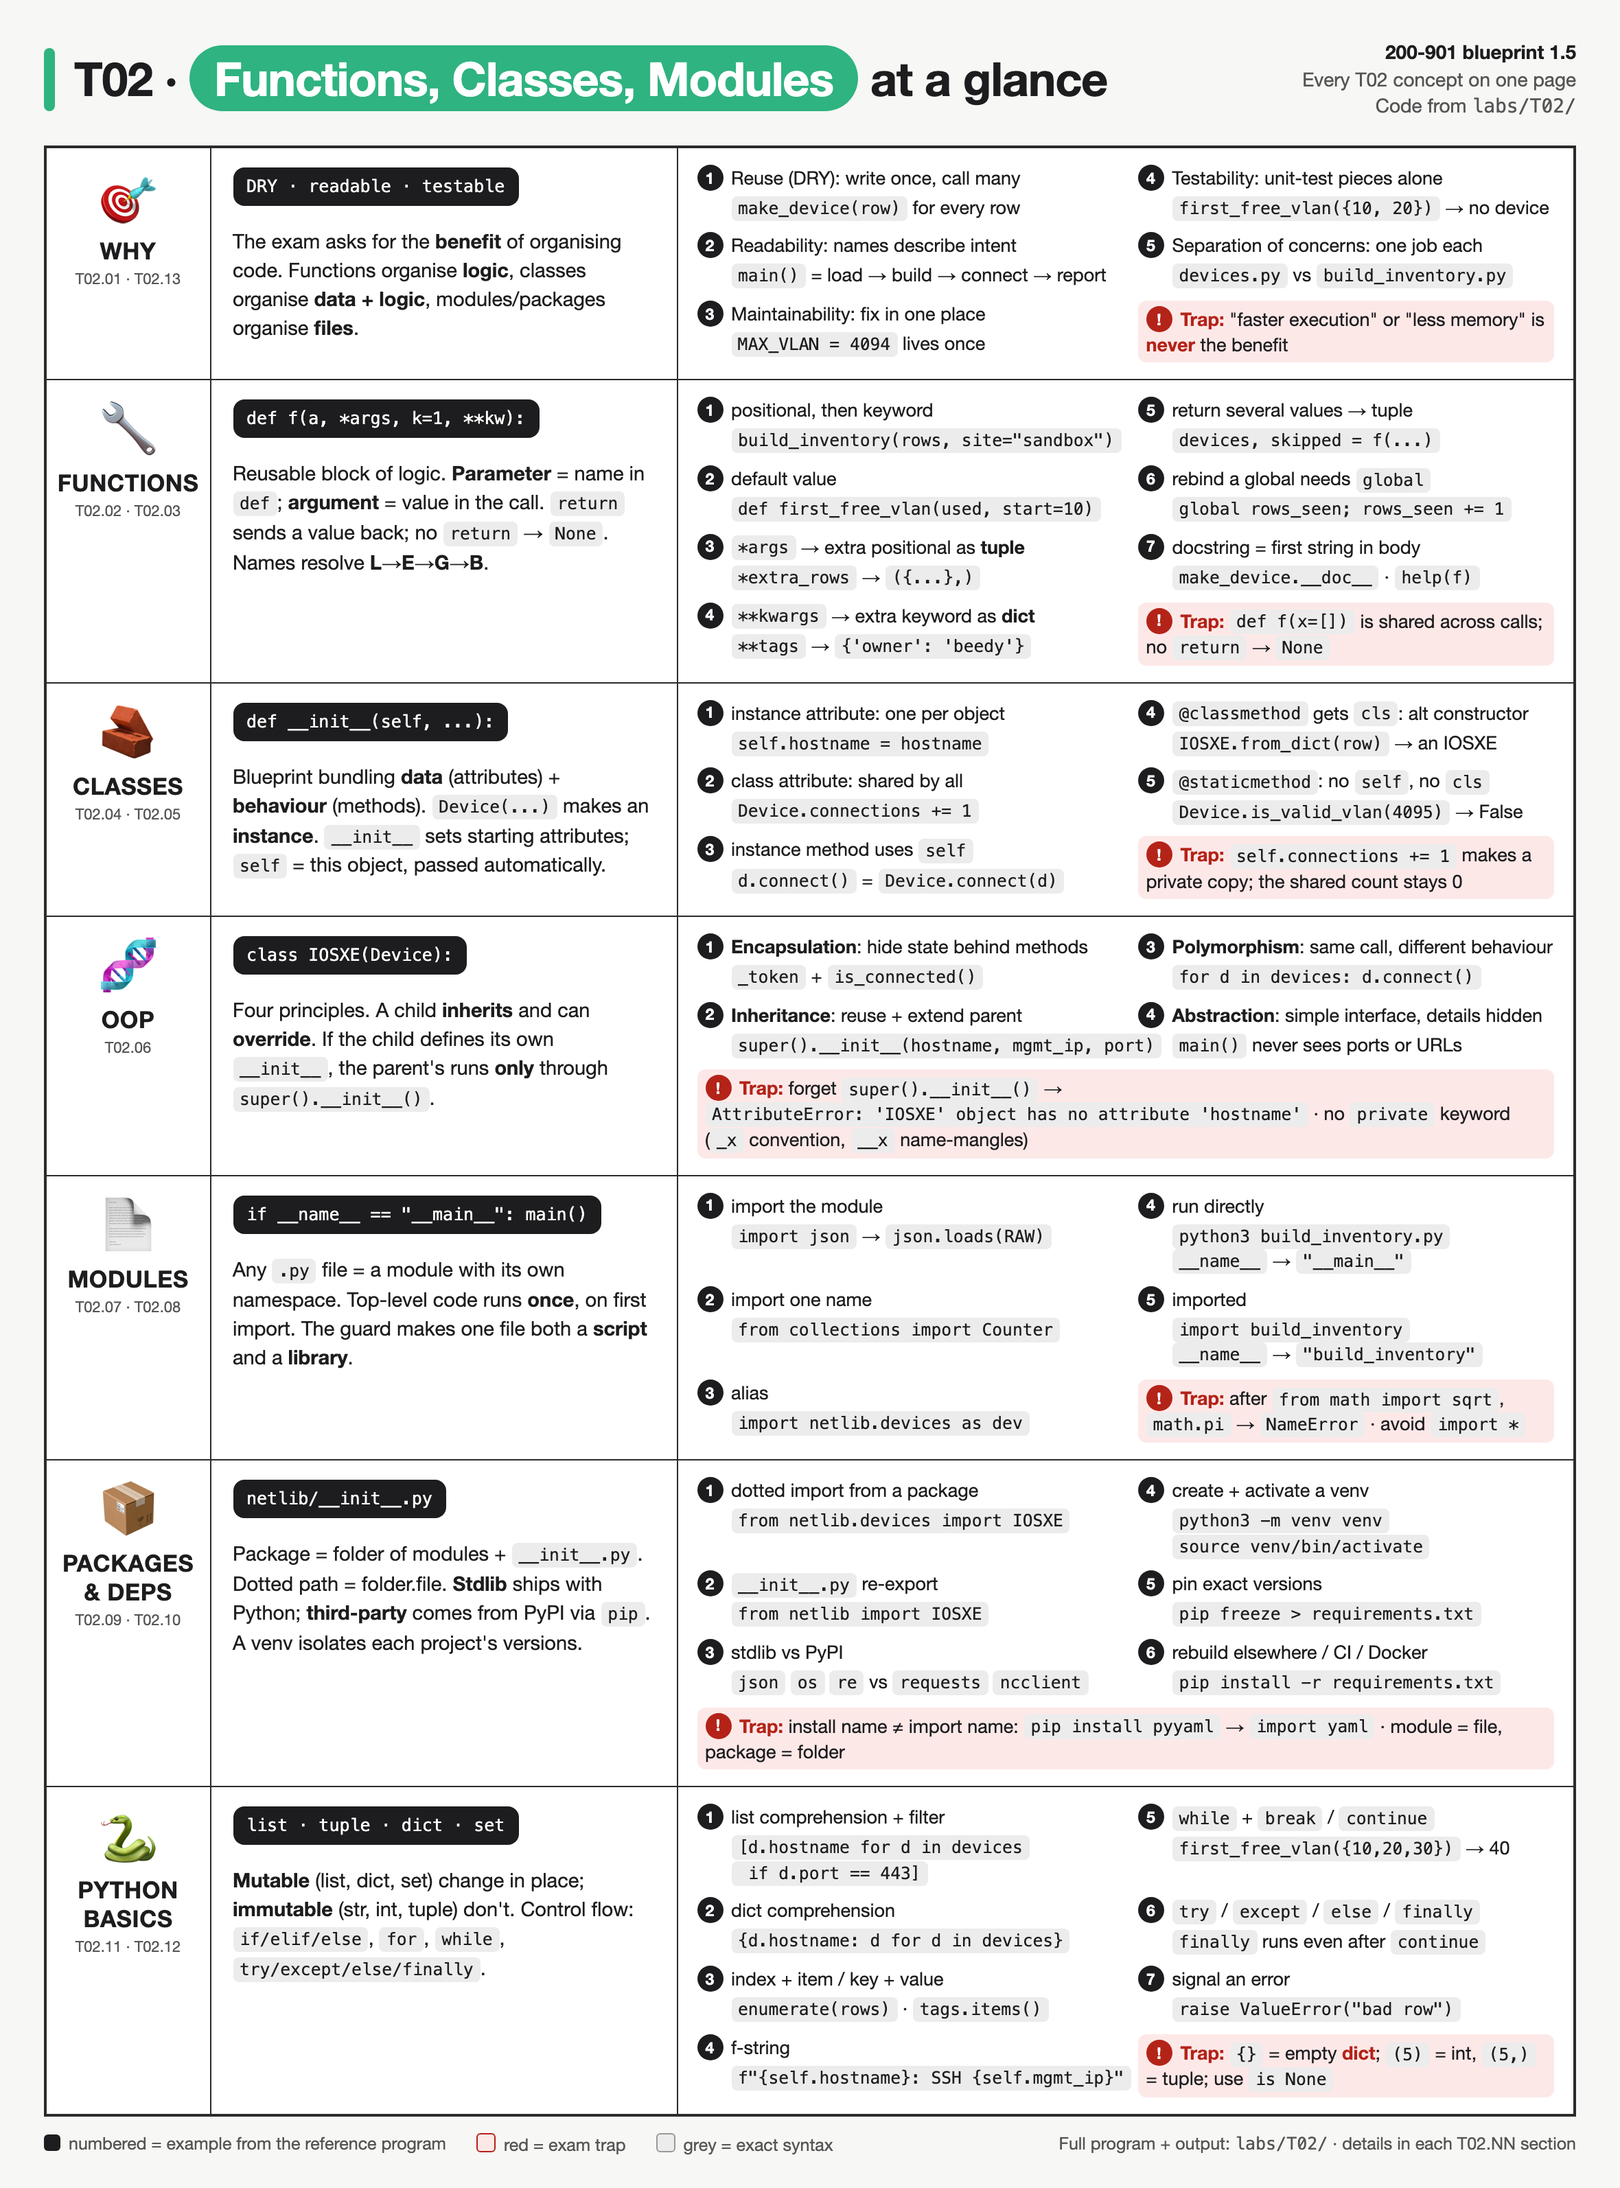
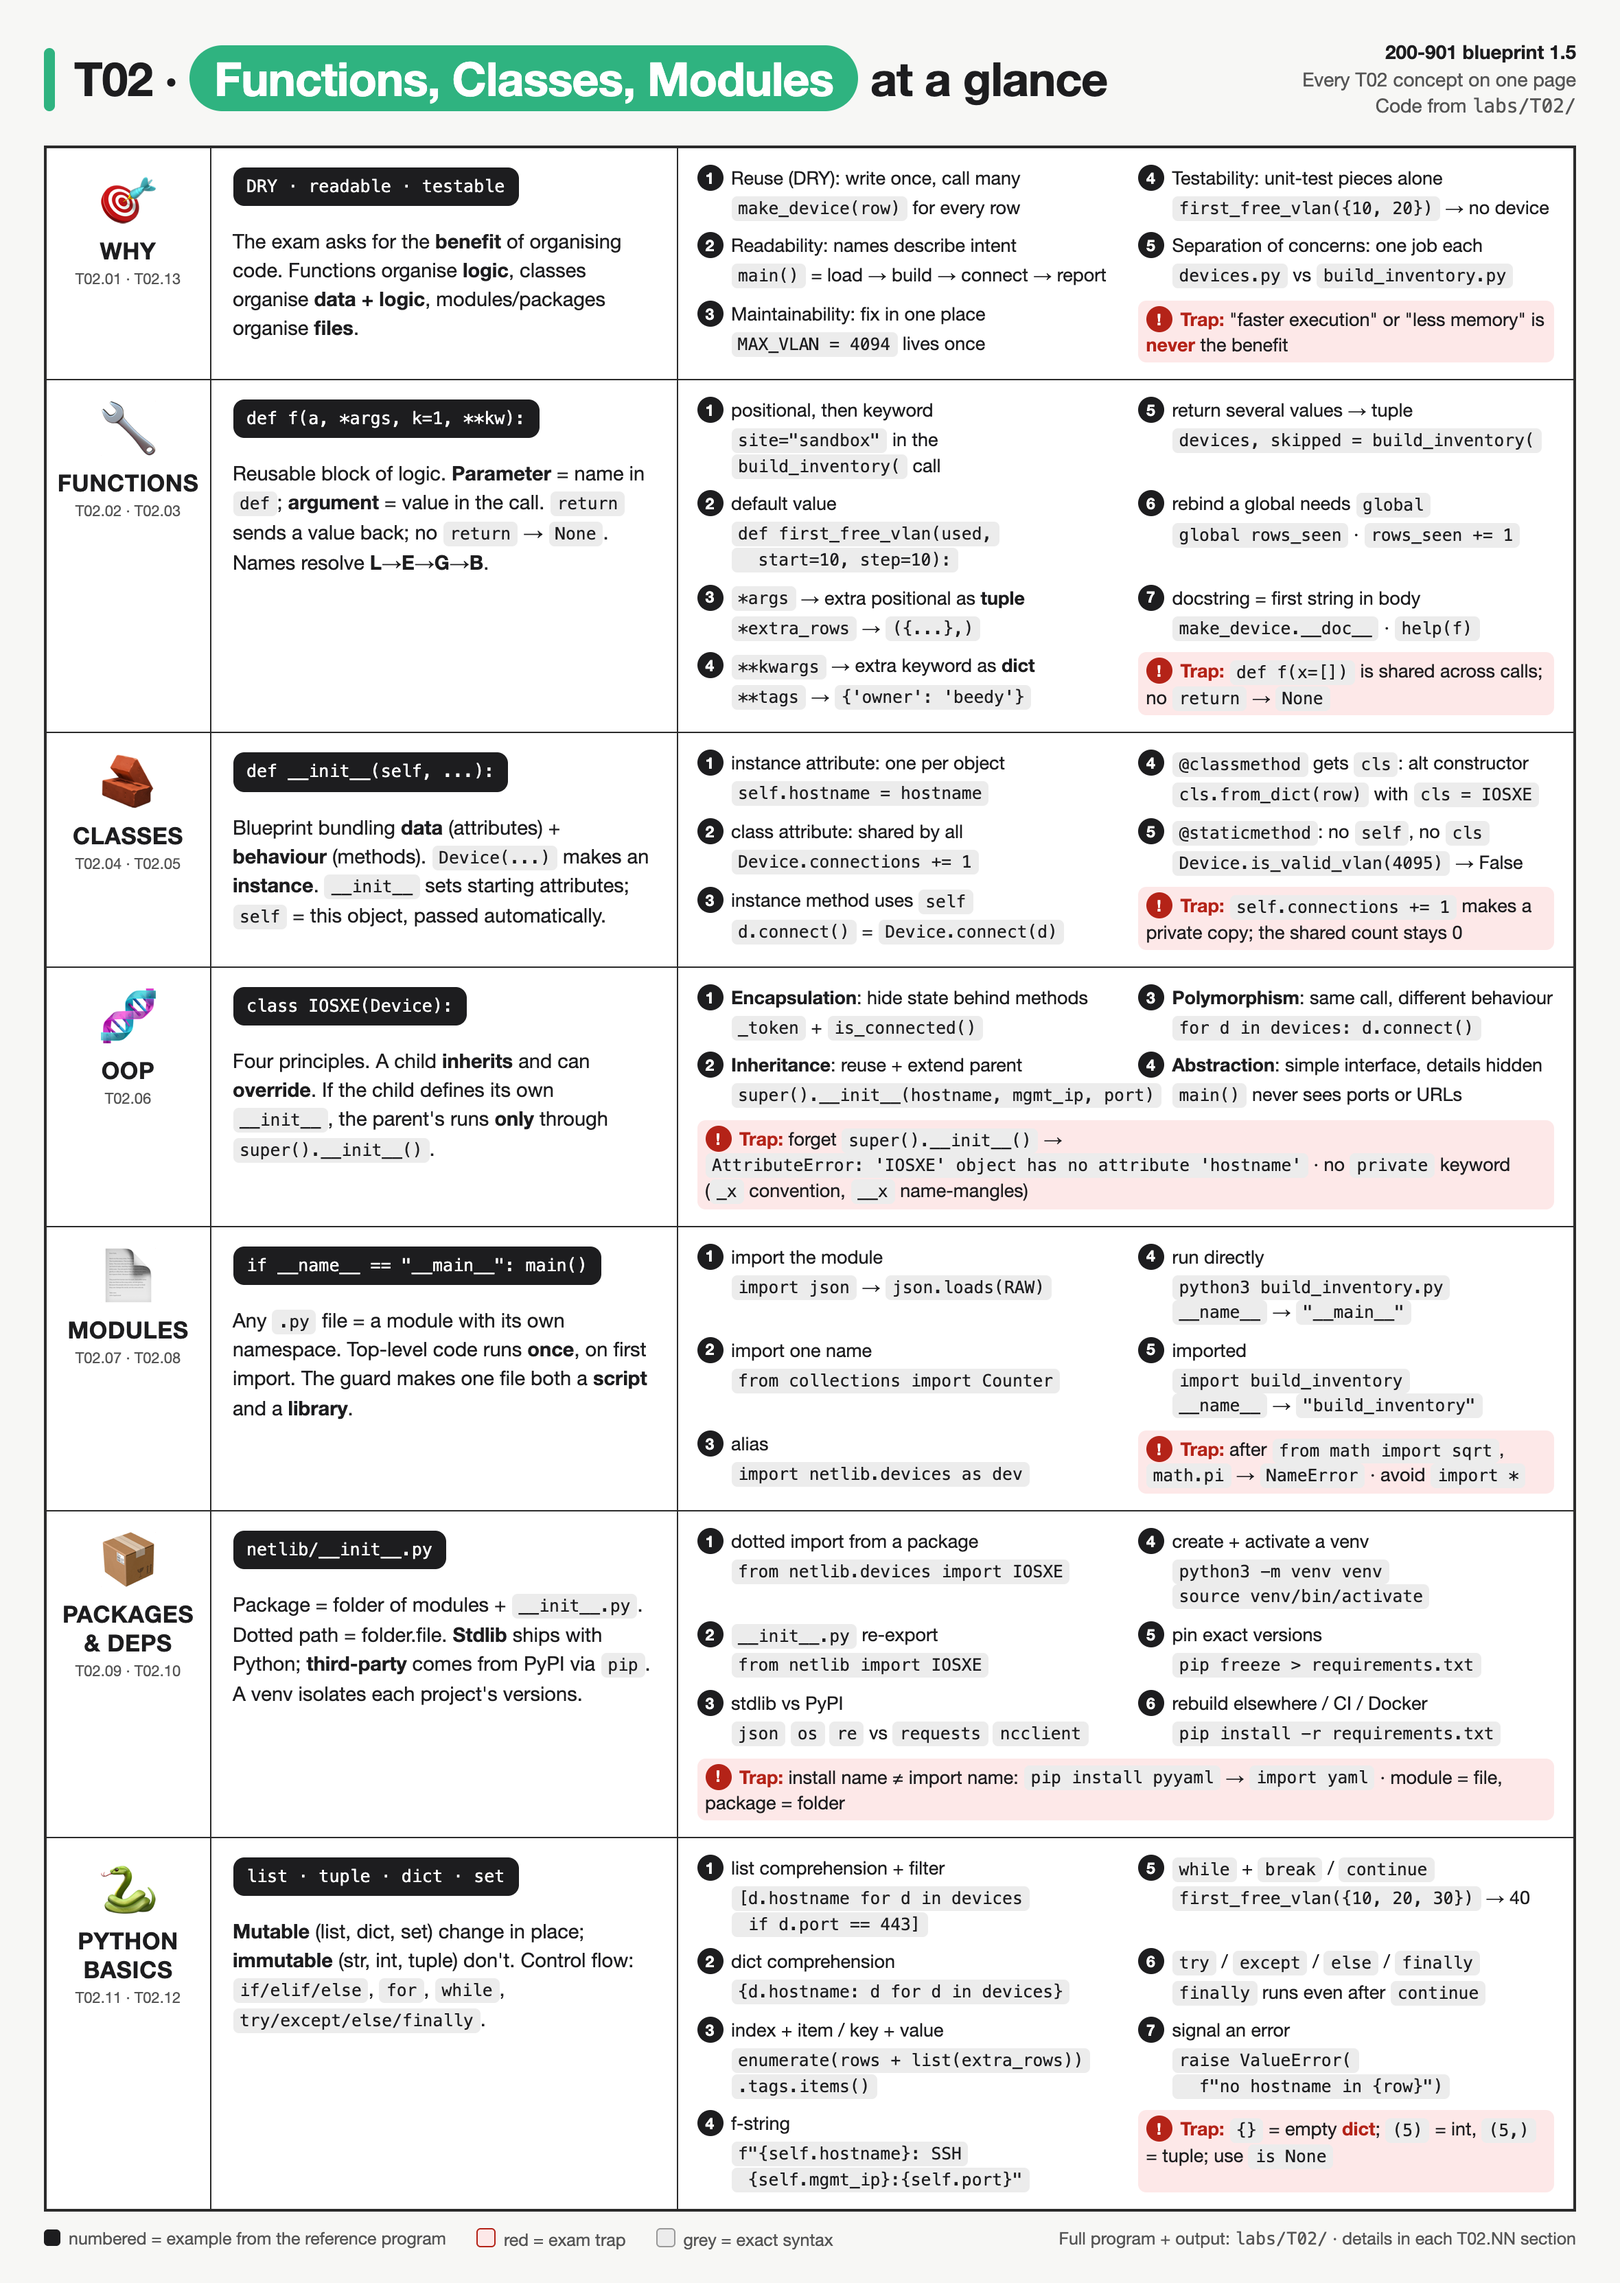
T02: exact code chips on overview sheet
Nine chips were shortened or paraphrased versions of program lines.
They now match labs/T02/ exactly; long ones are split across two chips.

diff --git a/assets/T02/00-overview.html b/assets/T02/00-overview.html
@@ -75,10 +75,10 @@
       <td class="what"><span class="sig">def f(a, *args, k=1, **kw):</span><br>
         Reusable block of logic. <b>Parameter</b> = name in <code>def</code>; <b>argument</b> = value in the call. <code>return</code> sends a value back; no <code>return</code> → <code>None</code>. Names resolve <b>L→E→G→B</b>.</td>
       <td class="items"><div class="grid">
-        <div class="item"><span class="n">1</span>positional, then keyword<span class="c"><code>build_inventory(rows, site="sandbox")</code></span></div>
-        <div class="item"><span class="n">5</span>return several values → tuple<span class="c"><code>devices, skipped = f(...)</code></span></div>
-        <div class="item"><span class="n">2</span>default value<span class="c"><code>def first_free_vlan(used, start=10)</code></span></div>
-        <div class="item"><span class="n">6</span>rebind a global needs <code>global</code><span class="c"><code>global rows_seen; rows_seen += 1</code></span></div>
+        <div class="item"><span class="n">1</span>positional, then keyword<span class="c"><code>site="sandbox"</code> in the <code>build_inventory(</code> call</span></div>
+        <div class="item"><span class="n">5</span>return several values → tuple<span class="c"><code>devices, skipped = build_inventory(</code></span></div>
+        <div class="item"><span class="n">2</span>default value<span class="c"><code>def first_free_vlan(used,</code><br><code>&nbsp;&nbsp;start=10, step=10):</code></span></div>
+        <div class="item"><span class="n">6</span>rebind a global needs <code>global</code><span class="c"><code>global rows_seen</code> · <code>rows_seen += 1</code></span></div>
         <div class="item"><span class="n">3</span><code>*args</code> → extra positional as <b>tuple</b><span class="c"><code>*extra_rows</code> → <code>({...},)</code></span></div>
         <div class="item"><span class="n">7</span>docstring = first string in body<span class="c"><code>make_device.__doc__</code> · <code>help(f)</code></span></div>
         <div class="item"><span class="n">4</span><code>**kwargs</code> → extra keyword as <b>dict</b><span class="c"><code>**tags</code> → <code>{'owner': 'beedy'}</code></span></div>
@@ -93,7 +93,7 @@
         Blueprint bundling <b>data</b> (attributes) + <b>behaviour</b> (methods). <code>Device(...)</code> makes an <b>instance</b>. <code>__init__</code> sets starting attributes; <code>self</code> = this object, passed automatically.</td>
       <td class="items"><div class="grid">
         <div class="item"><span class="n">1</span>instance attribute: one per object<span class="c"><code>self.hostname = hostname</code></span></div>
-        <div class="item"><span class="n">4</span><code>@classmethod</code> gets <code>cls</code>: alt constructor<span class="c"><code>IOSXE.from_dict(row)</code> → an IOSXE</span></div>
+        <div class="item"><span class="n">4</span><code>@classmethod</code> gets <code>cls</code>: alt constructor<span class="c"><code>cls.from_dict(row)</code> with <code>cls = IOSXE</code></span></div>
         <div class="item"><span class="n">2</span>class attribute: shared by all<span class="c"><code>Device.connections += 1</code></span></div>
         <div class="item"><span class="n">5</span><code>@staticmethod</code>: no <code>self</code>, no <code>cls</code><span class="c"><code>Device.is_valid_vlan(4095)</code> → False</span></div>
         <div class="item"><span class="n">3</span>instance method uses <code>self</code><span class="c"><code>d.connect()</code> = <code>Device.connect(d)</code></span></div>
@@ -153,12 +153,12 @@
         <b>Mutable</b> (list, dict, set) change in place; <b>immutable</b> (str, int, tuple) don't. Control flow: <code>if/elif/else</code>, <code>for</code>, <code>while</code>, <code>try/except/else/finally</code>.</td>
       <td class="items"><div class="grid">
         <div class="item"><span class="n">1</span>list comprehension + filter<span class="c"><code>[d.hostname for d in devices</code><br><code>&nbsp;if d.port == 443]</code></span></div>
-        <div class="item"><span class="n">5</span><code>while</code> + <code>break</code> / <code>continue</code><span class="c"><code>first_free_vlan({10,20,30})</code> → 40</span></div>
+        <div class="item"><span class="n">5</span><code>while</code> + <code>break</code> / <code>continue</code><span class="c"><code>first_free_vlan({10, 20, 30})</code> → 40</span></div>
         <div class="item"><span class="n">2</span>dict comprehension<span class="c"><code>{d.hostname: d for d in devices}</code></span></div>
         <div class="item"><span class="n">6</span><code>try</code> / <code>except</code> / <code>else</code> / <code>finally</code><span class="c"><code>finally</code> runs even after <code>continue</code></span></div>
-        <div class="item"><span class="n">3</span>index + item / key + value<span class="c"><code>enumerate(rows)</code> · <code>tags.items()</code></span></div>
-        <div class="item"><span class="n">7</span>signal an error<span class="c"><code>raise ValueError("bad row")</code></span></div>
-        <div class="item"><span class="n">4</span>f-string<span class="c"><code>f"{self.hostname}: SSH {self.mgmt_ip}"</code></span></div>
+        <div class="item"><span class="n">3</span>index + item / key + value<span class="c"><code>enumerate(rows + list(extra_rows))</code><br><code>.tags.items()</code></span></div>
+        <div class="item"><span class="n">7</span>signal an error<span class="c"><code>raise ValueError(</code><br><code>&nbsp;&nbsp;f"no hostname in {row}")</code></span></div>
+        <div class="item"><span class="n">4</span>f-string<span class="c"><code>f"{self.hostname}: SSH</code><br><code>&nbsp;{self.mgmt_ip}:{self.port}"</code></span></div>
         <div class="item trap"><span class="n">!</span><b>Trap:</b> <code>{}</code> = empty <b>dict</b>; <code>(5)</code> = int, <code>(5,)</code> = tuple; use <code>is None</code></div>
       </div></td>
     </tr>
